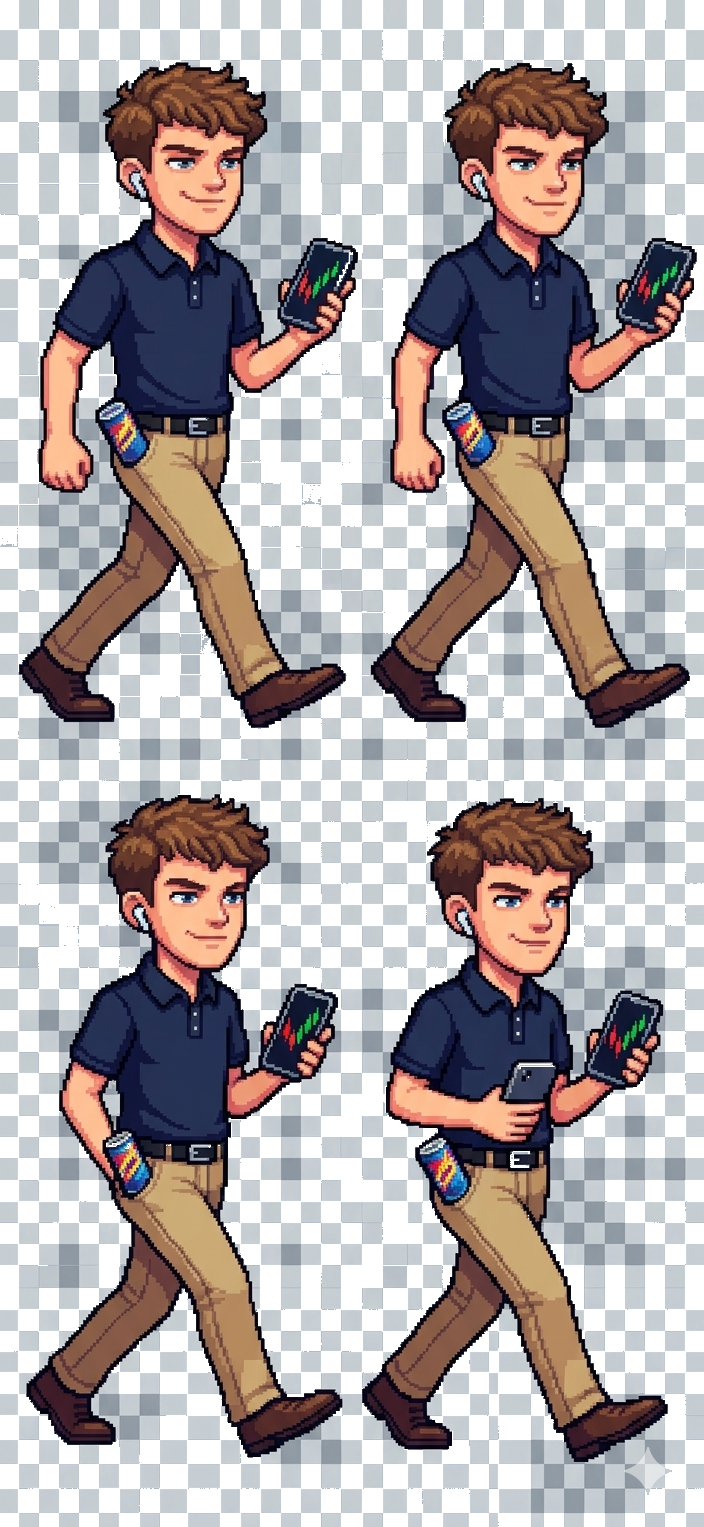
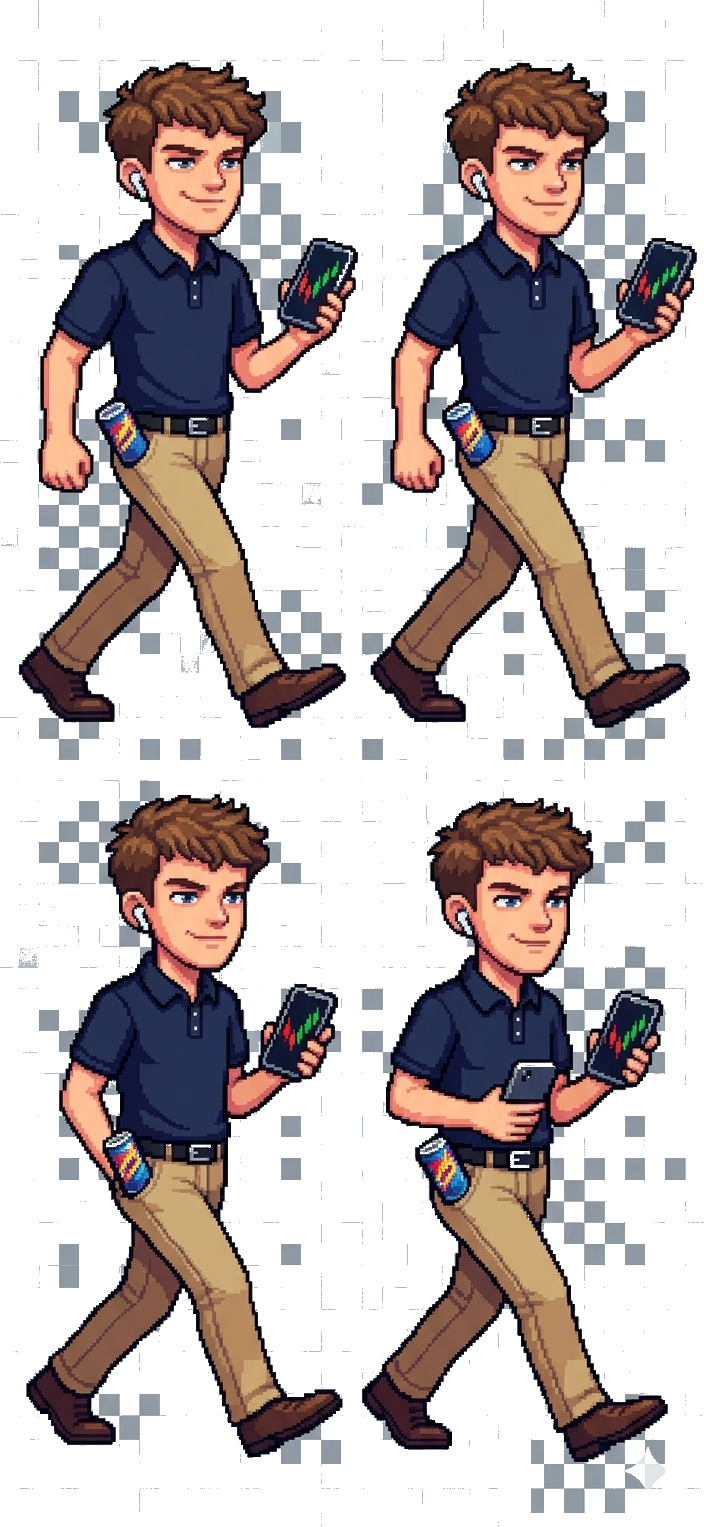
Fix Jack/Joey isolated bg pixels: direct color replacement
Flood fill couldn't reach isolated background pockets trapped between
sprite frames. Used direct color matching instead:
- Sample every 20th pixel to find most common opaque colors
- Remove pixels matching top 5 bg colors within diff<40
- Only remove if pixel is gray (R≈G≈B within 25) AND light (>150)
- This catches isolated patches flood fill can't reach

Jack: bg ~(197,204,210), removed 324,126 pixels
Joey: bg ~(247,251,252), removed 278,891 pixels

Cache busted: v=1773624173

diff --git a/deadwave.html b/deadwave.html
@@ -540,8 +540,8 @@ class GameScene extends Phaser.Scene {
     this.load.spritesheet('sister','sister.png?v=1773607616',{frameWidth:216,frameHeight:288});
     this.load.spritesheet('coach','footballcoach.png?v=1773607616',{frameWidth:306,frameHeight:204});
     this.load.spritesheet('waylon','waylon.png',{frameWidth:352,frameHeight:509});
-    this.load.spritesheet('jack','jack.png?v=1773623687',{frameWidth:352,frameHeight:763});
-    this.load.spritesheet('joey','joey.png?v=1773623687',{frameWidth:352,frameHeight:509});
+    this.load.spritesheet('jack','jack.png?v=1773624173',{frameWidth:352,frameHeight:763});
+    this.load.spritesheet('joey','joey.png?v=1773624173',{frameWidth:352,frameHeight:509});
     this.load.spritesheet('braden','braden.png',{frameWidth:704,frameHeight:381});
     this.load.image('gem','shard.png?v=1773607616');
     this.load.image('bullet','bullet.png?v=1773607616');
